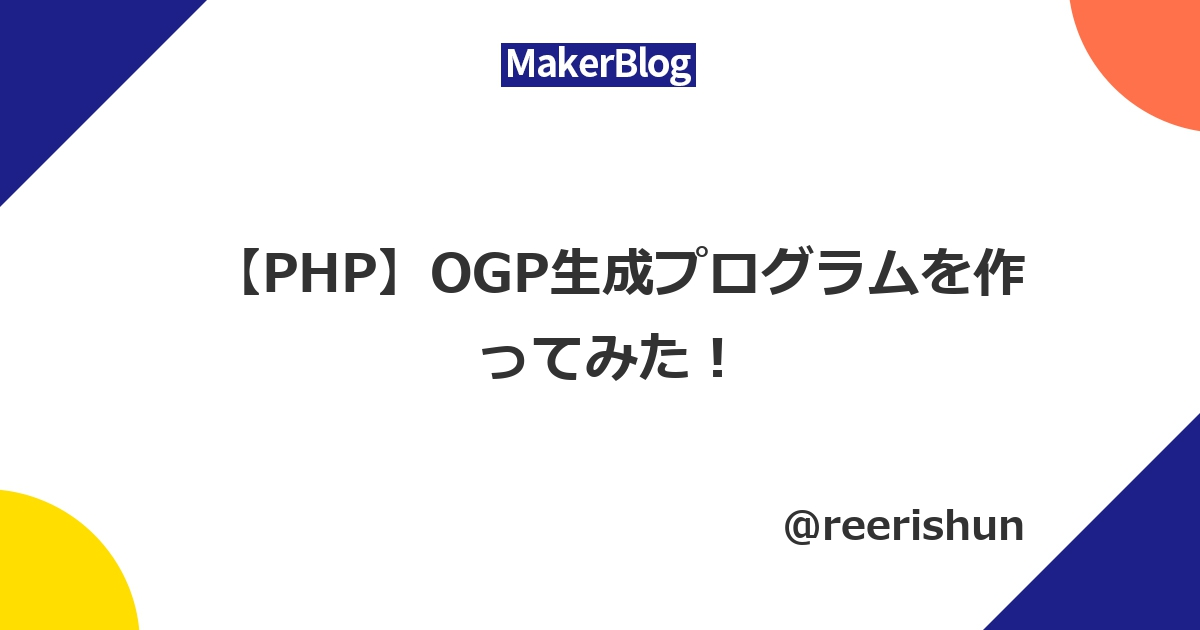
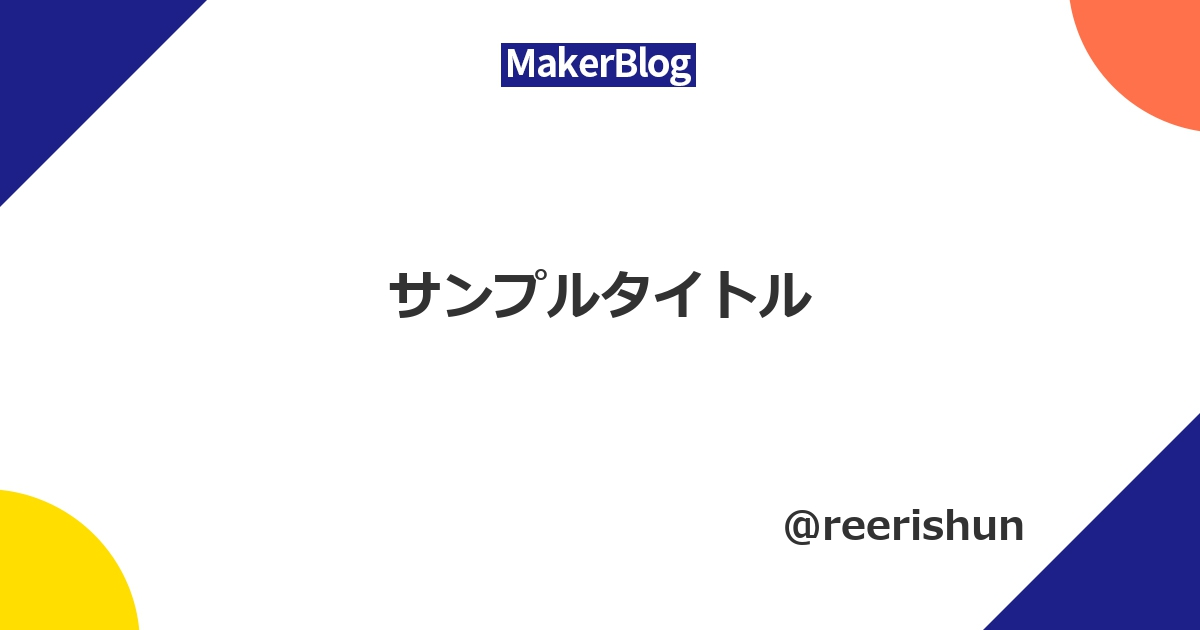
first commit

Changed region(s): [[0.185, 0.3921, 0.8633, 0.6032]]

diff --git a/ogp_generator.php b/ogp_generator.php
@@ -36,7 +36,7 @@ function ogp_generator($title,$user){
     // title
     imagettftextposition($image,40,0,'center','center',$color,$font,$title_lines,'center');
     // user
-    imagettftextposition($image,30,0,180,540,$color,$font,$user,'right','right');
+    imagettftextposition($image,30,0,180,540,$color,$font,'@' . $user,'right','right');
 
     imagejpeg($image, $afjpg, 100);
 }
@@ -159,6 +159,3 @@ function imagettftextposition($image, $size, $angle, $x, $y, $color, $fontfile, 
 
     return 0;
 }
-
-// 関数を実行
-ogp_generator("【PHP】OGP生成プログラムを作ってみた！", '@reerishun');

diff --git a/sample.php b/sample.php
@@ -1,0 +1,5 @@
+<?php
+require('ogp_generator.php');
+
+// 関数を実行
+ogp_generator("【PHP】OGP生成プログラムを作ってみた！", 'reerishun');

diff --git a/README.md b/README.md
@@ -1,5 +1,16 @@
 # OGP GENERATOR
 Qi○ta風のOGPを生成できるPHPコード
 
+## 使い方
+```php
+ogp_generator("タイトル", 'ユーザーID');
+```
+
+### 背景画像を変更したい場合
+1. 画像ファイルを上書
+    src/ogback.jpgを使用したい画像に変更する
+2. ソースを書き換える
+    ogp_generator.phpの15行目の画像パスを書き換える
+
 ## 関数説明
 
